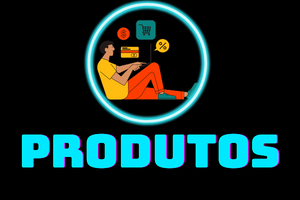
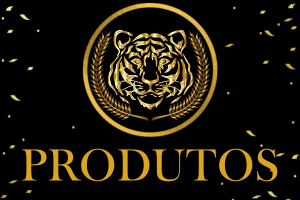
Padrão Ouro + Modificações Css

diff --git a/Client/src/Componentes/Grupos/Grupos.js b/Client/src/Componentes/Grupos/Grupos.js
@@ -7,16 +7,22 @@ import lotofacilImg from '../../Assets/to_readme/lotofacil.png';
 import lotomaniaImg from '../../Assets/to_readme/lotomania.png';
 import quinaImg from '../../Assets/to_readme/quina.png';
 import megaImg from '../../Assets/to_readme/mega.png';
+import TGruposImg from '../../Assets/to_readme/grupos.png';
 
 const Grupos = () => {
   return (
     <div>
       <div className="link-container">
+        <img
+          src={TGruposImg}
+          alt="LogoGrupos"
+          className="LogoGrupos"
+        />
         <Link to="/lotofacil" className="link-item">
           <img
             src={lotofacilImg}
             alt="Lotofácil"
-            className="link-item-icon"
+            className="link-item-icon-jogos"
           />
           GERADOR DA LOTOFÁCIL
         </Link>
@@ -24,7 +30,7 @@ const Grupos = () => {
           <img
             src={lotomaniaImg}
             alt="Lotomania"
-            className="link-item-icon"
+            className="link-item-icon-jogos"
           />
           GERADOR DA LOTOMANIA
         </Link>
@@ -32,12 +38,16 @@ const Grupos = () => {
           <img
             src={quinaImg}
             alt="Quina"
-            className="link-item-icon"
+            className="link-item-icon-jogos"
           />
           GERADOR DA QUINA
         </Link>
         <Link to="/mega" className="link-item">
-          <img src={megaImg} alt="Mega" className="link-item-icon" />
+          <img
+            src={megaImg}
+            alt="Mega"
+            className="link-item-icon-jogos"
+          />
           GERADOR DA MEGA
         </Link>
       </div>

diff --git a/Client/src/Componentes/Menu/Menu.js b/Client/src/Componentes/Menu/Menu.js
@@ -1,6 +1,9 @@
 import React from 'react';
 import { Link } from 'react-router-dom';
 import '../../styles/menu.css';
+import BotaoProdutosImg from '../../Assets/to_readme/botaoProdutos.png';
+import BotaoGruposImg from '../../Assets/to_readme/botaoGrupos.png';
+import BotaoNotificacoesImg from '../../Assets/to_readme/botaoNotificacoes.png';
 
 const Menu = () => {
   const Notificacoes = () => <div></div>;
@@ -9,17 +12,29 @@ const Menu = () => {
     <div className="menu-container">
       <div className="menu-item">
         <Link to="/produtos" className="menu-link">
-          PRODUTOS
+          <img
+            src={BotaoProdutosImg}
+            alt="botaoProdutos"
+            className="botaoProdutos"
+          />
         </Link>
       </div>
       <div className="menu-item">
         <Link to="/grupos" className="menu-link">
-          GRUPOS
+          <img
+            src={BotaoGruposImg}
+            alt="botaoGrupos"
+            className="botaoGrupos"
+          />{' '}
         </Link>
       </div>
       <div className="menu-item">
         <Link to="/notificacoes" className="menu-link">
-          NOTIFICAÇÕES
+          <img
+            src={BotaoNotificacoesImg}
+            alt="botaoNotificacoes"
+            className="botaoNotificacoes"
+          />
           <span className="notification-badge">
             {/* Opcional: adicione um indicador de notificação, se necessário */}
             {/* Conteúdo do componente Notificacoes */}

diff --git a/Client/src/styles/pageGeradores.css b/Client/src/styles/pageGeradores.css
@@ -11,6 +11,8 @@
 
 @media screen and (max-width: 768px) {
   .numbers-container {
+    display: flex;
+    justify-content: center;
     flex-wrap: wrap;
     max-width: 200px;
   }
@@ -20,9 +22,7 @@
   }
 }
 
-
 .title {
-  /* padding-top: 30px; */
   font-size: 30px;
   margin-bottom: 10px;
   margin-top: 300px;
@@ -43,13 +43,12 @@
   margin-bottom: 20px;
 }
 
-
 .game {
   margin: 5px;
 }
 
 .numbers-container {
-  display: table;
+  display: flex;
   justify-content: center;
   flex-wrap: wrap;
   max-width: 300px;
@@ -62,5 +61,6 @@
   margin: 2px;
   background-color: #ffffff;
   color: #000000;
-  border-radius: 20px;
+  border-radius: -100%;
+  font-weight: bold;
 }

diff --git a/Client/src/Componentes/Notificacoes/Notificacoes.js b/Client/src/Componentes/Notificacoes/Notificacoes.js
@@ -3,6 +3,7 @@ import '../../styles/produtos.css';
 import { ToastContainer, toast } from 'react-toastify';
 import 'react-toastify/dist/ReactToastify.css';
 import Menu from '../Menu/Menu';
+import '../../styles/notificacoes.css';
 
 function Notificacoes() {
   const [notifications, setNotifications] = useState([
@@ -65,7 +66,7 @@ function Notificacoes() {
         });
         setNotifications([...notifications]); // atualiza o estado das notificações
       }
-    }, 30 * 60 * 1000);
+    }, 10000);
 
     return () => {
       clearInterval(interval);

diff --git a/Client/src/styles/notificacoes.css b/Client/src/styles/notificacoes.css
@@ -1,10 +1,4 @@
-.notificacao {
-  position: fixed;
-  top: 10px;
-  right: 10px;
-  background-color: #000000;
-  color: #ff0000; /* Adicione uma cor de texto para que seja visível */
-  padding: 10px;
-  border-radius: 5px;
-  box-shadow: 0 2px 5px rgba(0, 0, 0, 0.1);
+.page-container {
+  height: 100vh; /* Define a altura máxima para ocupar a altura total da tela */
+  overflow: auto; /* Habilita a barra de rolagem quando o conteúdo exceder a altura máxima */
 }

diff --git a/Client/src/styles/menu.css b/Client/src/styles/menu.css
@@ -15,10 +15,20 @@
 
 .menu-link {
   text-decoration: none;
-  color: #ffffff;
+  color: #DAA520;
   transition: text-decoration 0.3s ease;
 }
 
 .menu-link:hover {
   text-decoration: underline;
+}
+
+.botaoProdutos{
+  height: 50px;
+}
+.botaoGrupos{
+  height: 50px;
+}
+.botaoNotificacoes{
+  height: 50px;
 }

diff --git a/Client/src/Componentes/GeradorLotoMania/GeradorLotoMania.js b/Client/src/Componentes/GeradorLotoMania/GeradorLotoMania.js
@@ -41,7 +41,7 @@ const GeradorLotomania = () => {
           <img
             src={TLotomaniaImg}
             alt="Lotomania"
-            className="link-item-icon"
+            className="link-item-icon-jogos"
           />
         </h1>
         <h6 className="subTitle">

diff --git a/Client/src/Componentes/GeradorLotoFacil/GeradorLotoFacil.js b/Client/src/Componentes/GeradorLotoFacil/GeradorLotoFacil.js
@@ -41,7 +41,7 @@ const GeradorLotofacil = () => {
           <img
             src={TLotofacilImg}
             alt="Lotofácil"
-            className="link-item-icon"
+            className="link-item-icon-jogos"
           />
         </h1>
 

diff --git a/Client/src/Componentes/GeradorQuina/GeradorQuina.js b/Client/src/Componentes/GeradorQuina/GeradorQuina.js
@@ -41,7 +41,7 @@ const GeradorQuina = () => {
           <img
             src={TQuinaImg}
             alt="Lotofácil"
-            className="link-item-icon"
+            className="link-item-icon-jogos"
           />
         </h1>
 

diff --git a/Client/src/Componentes/GeradorMega/GeradorMega.js b/Client/src/Componentes/GeradorMega/GeradorMega.js
@@ -41,7 +41,7 @@ const GeradorMega = () => {
           <img
             src={TMegaImg}
             alt="Mega-Sena"
-            className="link-item-icon"
+            className="link-item-icon-jogos"
           />
         </h1>
 

diff --git a/Client/src/styles/grupos.css b/Client/src/styles/grupos.css
@@ -12,6 +12,12 @@
   bottom: 0;
   left: 0;
 }
+.LogoGrupos {
+  display: block;
+  margin: 0 auto;
+  height: 180px;
+  margin-bottom: 20px;
+}
 
 
 .link-item {

diff --git a/Client/src/styles/produtos.css b/Client/src/styles/produtos.css
@@ -16,6 +16,11 @@ body {
   height: 100%;
 }
 
+.products-container img {
+  border-radius: 50%;
+}
+
+
 
 
 
